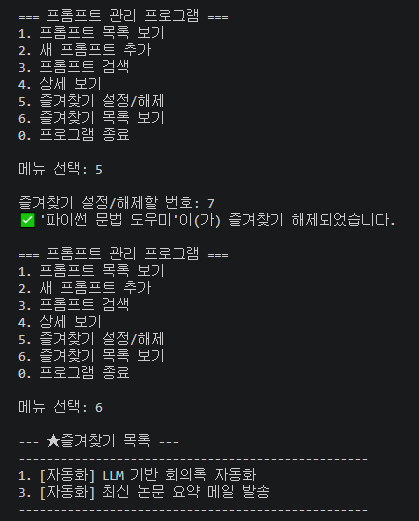
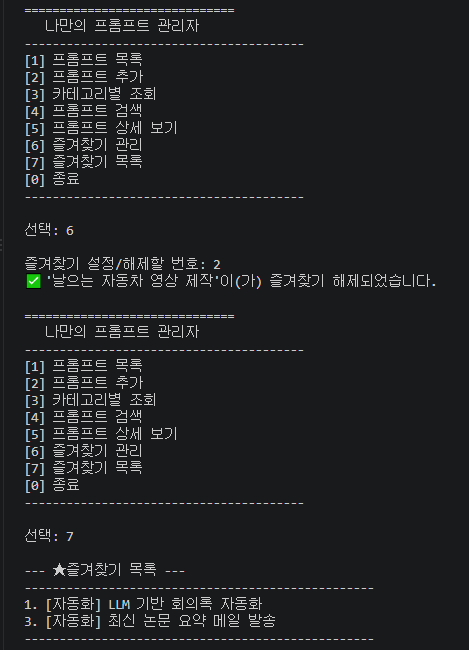
실행화면 스크린샷 순서 재정렬

diff --git a/main.py b/main.py
@@ -62,9 +62,9 @@ def main():
         choice = input("\n선택: ").strip()
         
         if choice == "1":
-            add_prompt()
-        elif choice == "2":
             show_list()
+        elif choice == "2":
+            add_prompt()
         elif choice == "3":
             show_by_category()
         elif choice == "4":
@@ -72,7 +72,7 @@ def main():
         elif choice == "5":
             show_detail()
         elif choice == "6":
-            manage_favorite()
+            toggle_favorite()
         elif choice == "7":
             show_favorites()
         elif choice == "0":
@@ -89,8 +89,8 @@ def display_menu():
     print("\n" + "="*30)
     print("   나만의 프롬프트 관리자")
     print("-" * 40)
-    print("[1] 프롬프트 추가")
-    print("[2] 프롬프트 목록")
+    print("[1] 프롬프트 목록")   
+    print("[2] 프롬프트 추가")   
     print("[3] 카테고리별 조회")
     print("[4] 프롬프트 검색")
     print("[5] 프롬프트 상세 보기")
@@ -280,36 +280,6 @@ def show_favorites():
 # ------------------------------------------
 # 10. 메인 메뉴 함수
 # ------------------------------------------
-def main():
-    """프로그램의 메인 루프를 관리합니다."""
-    while True:
-        print("\n=== 프롬프트 관리 프로그램 ===")
-        print("1. 프롬프트 목록 보기")
-        print("2. 새 프롬프트 추가")
-        print("3. 프롬프트 검색")
-        print("4. 상세 보기")
-        print("5. 즐겨찾기 설정/해제")
-        print("6. 즐겨찾기 목록 보기")
-        print("0. 프로그램 종료")
-        
-        choice = input("\n메뉴 선택: ")
-        
-        if choice == "1":
-            show_list()
-        elif choice == "2":
-            add_prompt()
-        elif choice == "3":
-            search_prompt()
-        elif choice == "4":
-            show_detail()
-        elif choice == "5":
-            toggle_favorite()
-        elif choice == "6":
-            show_favorites()
-        elif choice == "0":
-            break
-        else:
-            print("⚠ 잘못된 선택입니다. 다시 입력해주세요.")
 
 # 프로그램 실행
 if __name__ == "__main__":

diff --git a/A1-1_Summary.md b/A1-1_Summary.md
@@ -12,7 +12,7 @@
 ## 2. 기술 스택 (Tech Stack)
 | 구분 | 기술 |
 | :--- | :--- |
-| **Language** | Python 3.10+ |
+| **Language** | Python 3.13+ |
 | **Tool(개발환경/도구)** | VSCode |
 | **VCS(버전관리)** | Git, GitHub |
 | **Library** | `datetime` (기본 라이브러리/시간 기록) |
@@ -68,17 +68,22 @@ graph LR
 
 ## 6. 실행 화면 (Demo)
 
-| 1. 프롬프트 목록 보기 | 4. 프롬프트 상세 보기 |
+| 1. 프롬프트 목록 보기 | 2. 프롬프트 추가 |
 | :---: | :---: |
-| ![목록보기](./Screenshots/1.프롬프트_목록보기.png) | ![상세보기](./Screenshots/4.프롬프트_상세보기.png) |
+| <img src="./Screenshots/1.프롬프트_목록보기.png" width="400"/><br><img src="./Screenshots/1-1.프롬프트_목록보기_추가.png" width="400"/> | <img src="./Screenshots/2.프롬프트_추가.png" width="400"/> |
 
-| 2. 프롬프트 추가 | 3. 프롬프트 검색 |
+| 3. 카테고리별 조회 | 4. 프롬프트 검색 |
 | :---: | :---: |
-| ![추가하기](./Screenshots/2.프롬프트_추가.png) | ![검색하기](./Screenshots/3.프롬프트_검색.png) |
+| <img src="./Screenshots/6.카테고리별_조회.png" width="400"/> | <img src="./Screenshots/3.프롬프트_검색.png" width="400"/> |
 
-| 5-1. 즐겨찾기 설정 | 5-2. 즐겨찾기 해제 |
+| 5. 프롬프트 상세 보기 | 6. 즐겨찾기 관리 |
 | :---: | :---: |
-| ![즐겨찾기설정](./Screenshots/5-1.즐겨찾기관리_설정.png) | ![즐겨찾기해제](./Screenshots/5-2.즐겨찾기관리_해제.png) |
+| <img src="./Screenshots/4.프롬프트_상세보기.png" width="400"/> | <img src="./Screenshots/5-1.즐겨찾기관리_설정.png" width="400"/><br><img src="./Screenshots/5-2.즐겨찾기관리_해제.png" width="400"/> |
+
+| 7. 프로그램 종료 |
+| :---: |
+| <img src="./Screenshots/0.프로그램_종료.png" width="400"/> |
+
 
 ## 7. 문제 해결(Troubleshooting)
 - **문제:** Git Push 과정에서 원격 저장소와의 충돌 발생.
